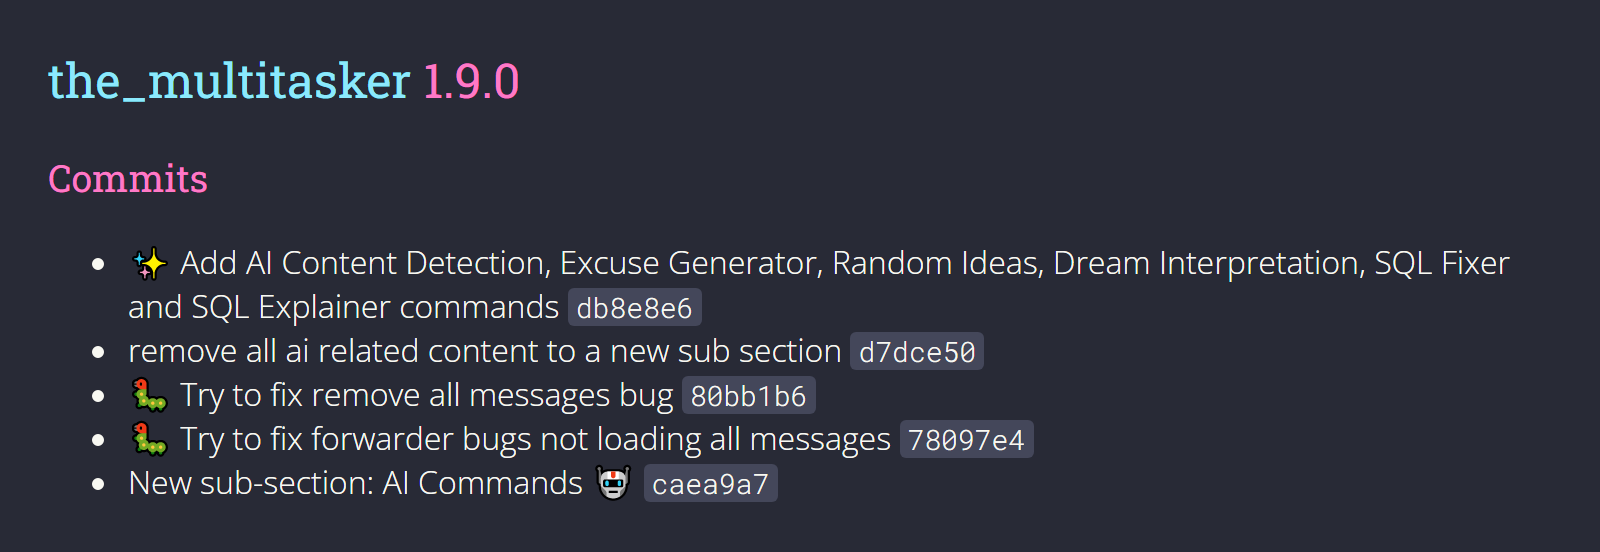
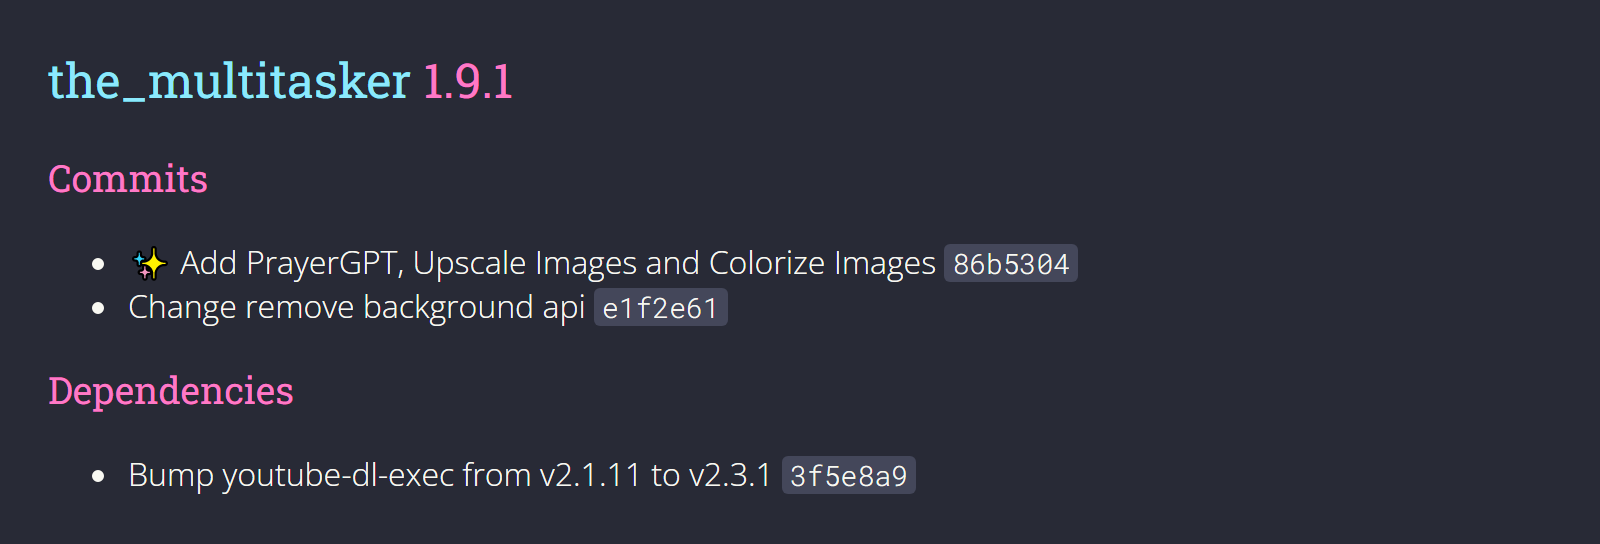
Release 1.9.1

Changed region(s): [[0.0312, 0.4375, 0.9375, 0.9375], [0.0312, 0.125, 0.3438, 0.1875], [0.0312, 0.2812, 0.1562, 0.375]]

diff --git a/CHANGELOG.md b/CHANGELOG.md
@@ -7,7 +7,21 @@ and this project adheres to [Semantic Versioning](https://semver.org/spec/v2.0.0
 
 Generated by [`auto-changelog`](https://github.com/CookPete/auto-changelog).
 
-## [1.9.0](https://github.com/eyalmichon/TheMultitasker/compare/1.8.29...1.9.0)
+## [1.9.1](https://github.com/eyalmichon/TheMultitasker/compare/1.9.0...1.9.1)
+
+
+
+
+### Commits
+
+- ✨ Add PrayerGPT, Upscale Images and Colorize Images [`86b5304`](https://github.com/eyalmichon/TheMultitasker/commit/86b530463e4a7002625879a0478e2a4780a6e3f2)
+- Change remove background api [`e1f2e61`](https://github.com/eyalmichon/TheMultitasker/commit/e1f2e6188b55fb92d541ee5fd969d91f012a4d5f)
+
+### Dependencies
+
+- Bump youtube-dl-exec from v2.1.11 to v2.3.1 [`3f5e8a9`](https://github.com/eyalmichon/TheMultitasker/commit/3f5e8a9f7c2e89d711e20385bf913d5ba3a81ed9)
+
+## [1.9.0](https://github.com/eyalmichon/TheMultitasker/compare/1.8.29...1.9.0) - 2023-02-28
 
 
 
@@ -17,6 +31,7 @@ Generated by [`auto-changelog`](https://github.com/CookPete/auto-changelog).
 - ✨ Add AI Content Detection, Excuse Generator, Random Ideas, Dream Interpretation, SQL Fixer and SQL Explainer commands [`db8e8e6`](https://github.com/eyalmichon/TheMultitasker/commit/db8e8e6621bc0c59aab30b370fd6e9a356e19234)
 - remove all ai related content to a new sub section [`d7dce50`](https://github.com/eyalmichon/TheMultitasker/commit/d7dce50472eae47863193dae3b7faf797ce9bba7)
 - 🐛 Try to fix remove all messages bug [`80bb1b6`](https://github.com/eyalmichon/TheMultitasker/commit/80bb1b6beec41545ca82d7fc12fa2fa66cd84ea9)
+- Release 1.9.0 [`0a27c50`](https://github.com/eyalmichon/TheMultitasker/commit/0a27c5010d659d88312c67b4b96ec5cebeedc4d8)
 - 🐛 Try to fix forwarder bugs not loading all messages [`78097e4`](https://github.com/eyalmichon/TheMultitasker/commit/78097e49f3fd7c76a44bc506a559f7e87a72b7f4)
 - New sub-section: AI Commands 🤖 [`caea9a7`](https://github.com/eyalmichon/TheMultitasker/commit/caea9a77ee466772bdd7ab0edb017e214ec12bed)
 
